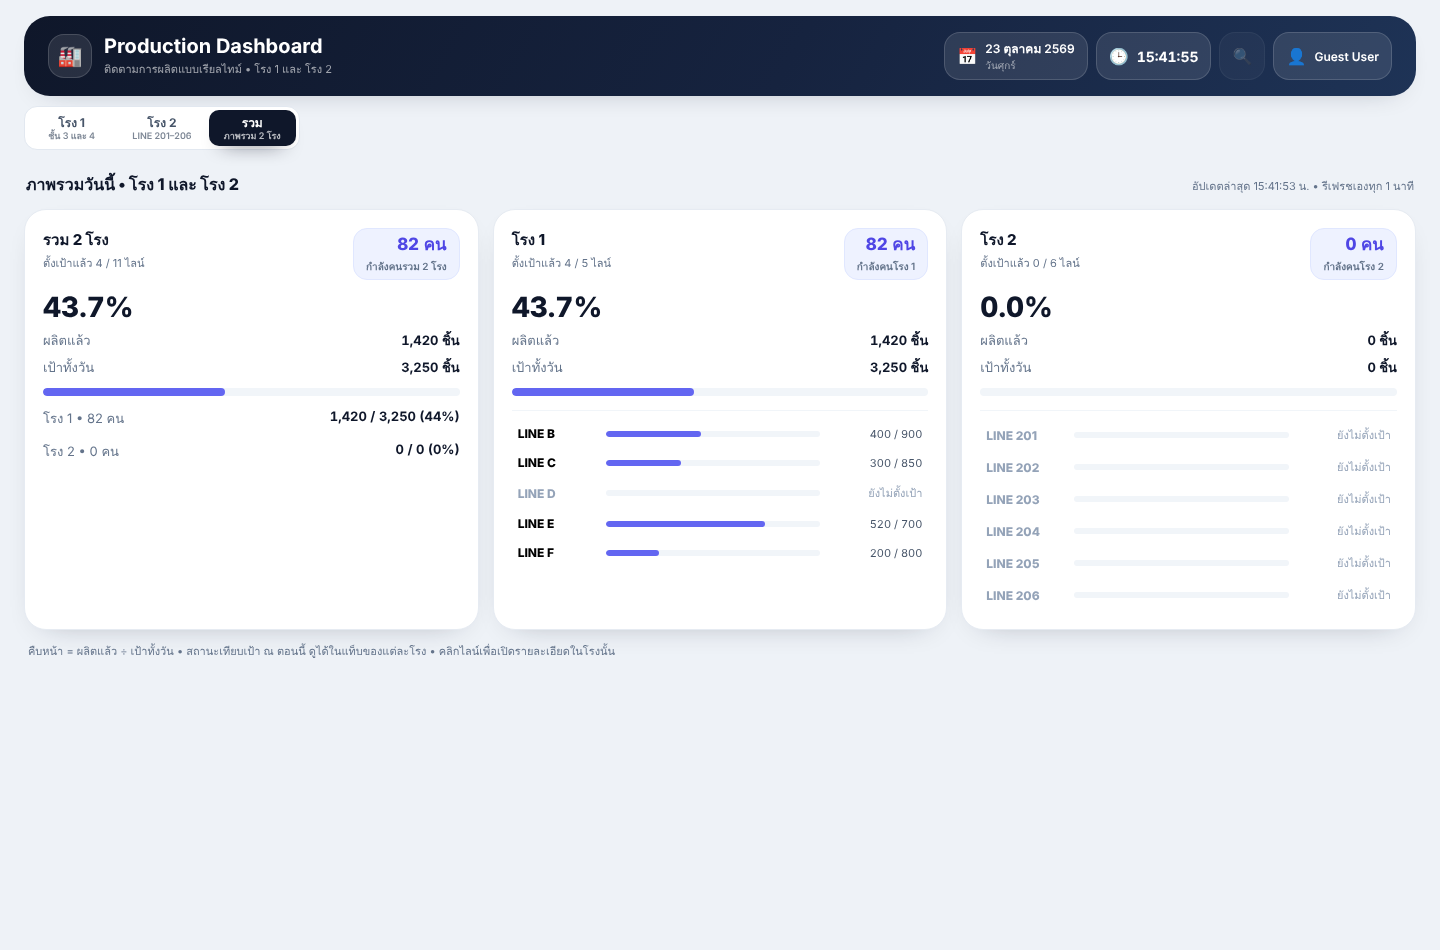
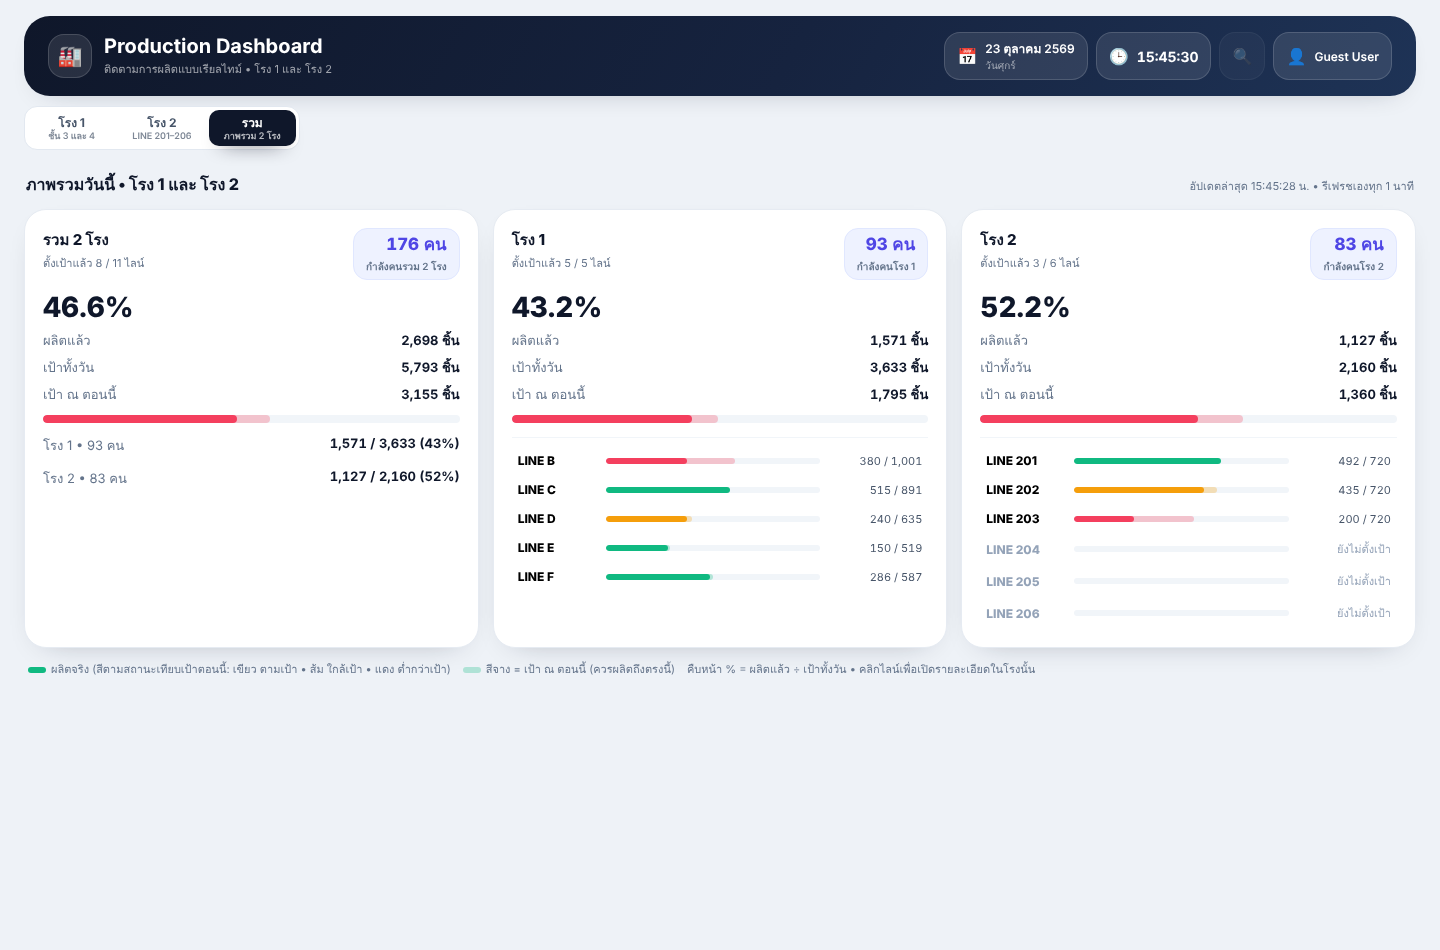
Combined page: faded target-now layer on bars, status colors
Claude-Session: https://claude.ai/code/session_019Vn9qy6qrnvbmqBZX3V853

diff --git a/all.html b/all.html
@@ -71,6 +71,12 @@
   .kv b{font-variant-numeric:tabular-nums}
   .track{background:#F1F5F9;border-radius:999px;height:8px;overflow:hidden;margin-top:10px}
   .fill{height:8px;border-radius:999px;background:var(--ok);transition:width .25s ease}
+  /* แถบ 2 ชั้น: ชั้นจาง = เป้า ณ ตอนนี้ (รอให้ถึง) • ชั้นเข้ม = ผลิตจริง */
+  .track,.lineRow .mini{position:relative}
+  .track .ghost,.lineRow .mini .ghost{position:absolute;left:0;top:0;bottom:0;border-radius:999px;opacity:.28;transition:width .25s ease}
+  .track .fill,.lineRow .mini i.solid{position:relative}
+  .legend{display:flex;flex-wrap:wrap;gap:12px;align-items:center;margin:12px 4px 0;font-size:11px;color:var(--muted)}
+  .legend .sw{display:inline-block;width:18px;height:6px;border-radius:999px;vertical-align:middle;margin-right:5px}
   .lines{margin-top:14px;border-top:1px solid #F1F5F9;padding-top:8px}
   .lineRow{display:grid;grid-template-columns:78px 1fr 92px;gap:10px;align-items:center;padding:7px 6px;border-radius:12px;width:100%;border:0;background:transparent;text-align:left}
   .lineRow:hover{background:#F8FAFC}
@@ -138,7 +144,11 @@
       <div class="card" id="cardF1"></div>
       <div class="card" id="cardF2"></div>
     </div>
-    <p class="note" style="margin:12px 4px 0;font-size:11px;color:var(--muted)">คืบหน้า = ผลิตแล้ว ÷ เป้าทั้งวัน • สถานะเทียบเป้า ณ ตอนนี้ ดูได้ในแท็บของแต่ละโรง • คลิกไลน์เพื่อเปิดรายละเอียดในโรงนั้น</p>
+    <div class="legend">
+      <span><i class="sw" style="background:var(--ok)"></i>ผลิตจริง (สีตามสถานะเทียบเป้าตอนนี้: เขียว ตามเป้า • ส้ม ใกล้เป้า • แดง ต่ำกว่าเป้า)</span>
+      <span><i class="sw" style="background:var(--ok);opacity:.28"></i>สีจาง = เป้า ณ ตอนนี้ (ควรผลิตถึงตรงนี้)</span>
+      <span>คืบหน้า % = ผลิตแล้ว ÷ เป้าทั้งวัน • คลิกไลน์เพื่อเปิดรายละเอียดในโรงนั้น</span>
+    </div>
   </section>
 </div>
 
@@ -317,7 +327,7 @@
       var t = lineTotals(it);
       var mp = it.manpower;
       mp = (mp === null || mp === undefined || mp === "") ? 0 : Math.max(0, Math.round(num(mp) * 2) / 2);
-      return { code: FACTORIES[key].lineCode(it.line), target: t.target, actual: t.actual, people: mp };
+      return { code: FACTORIES[key].lineCode(it.line), target: t.target, actual: t.actual, people: mp, item: it };
     });
     // นับเฉพาะไลน์ที่ตั้งเป้าวันนี้แล้ว (ไลน์ที่ยังไม่ตั้งเป้าอาจมีค่ากำลังคนค้างจากวันก่อน)
     var people = lines.reduce(function (a, l) { return a + (l.target > 0 ? l.people : 0); }, 0);
@@ -326,8 +336,81 @@
     return { key: key, lines: lines, target: target, actual: actual, people: people, planned: lines.filter(function (l) { return l.target > 0; }).length };
   }
 
-  // คืบหน้าทั้งวัน (ยังไม่ใช่สถานะเทียบเป้า ณ ตอนนี้) → สีกลาง ๆ ครบเป้าแล้วเป็นสีเขียว
-  function barColor(p) { return p >= 100 ? "var(--ok)" : "#6366F1"; }
+  var STATUS_COLOR = { ok: "var(--ok)", warn: "var(--warn)", bad: "var(--bad)", idle: "#CBD5E1" };
+  var NEUTRAL = "#6366F1"; // ยังคำนวณเป้าตอนนี้ไม่ได้ (เช่น Dashboard โรง 2 ยังโหลดไม่เสร็จ)
+
+  // ===== เป้า ณ ตอนนี้ ของแต่ละไลน์ — ใช้วิธีคิดเดียวกับ Dashboard ของโรงนั้นเป๊ะ =====
+  // โรง 1: เหมือน getLotPlan + getLotLiveMetrics + getLineStatus ใน output/index.html
+  //        (เป้าต่อชม.ของแต่ละ LOT × ชั่วโมงที่บันทึกแล้ว, เกณฑ์ขาด ≤10 ชิ้น เขียว / ≤20 ส้ม / เกินนั้น แดง)
+  function f1LineNow(it) {
+    var total = num(it.total_working_hours) || 8;
+    var lot1 = String(it.lot_number || it.lot1 || "").trim();
+    var lot2 = String(it.lot_number2 || it.lot2 || "").trim();
+    var lot3 = String(it.lot_number3 || it.lot3 || "").trim();
+    var h1 = num(it.hours1) > 0 ? num(it.hours1) : ((!lot2 && !lot3) ? total : 0);
+    var lots = [
+      { lot: lot1, target: num(it.target1) || num(it.target), hours: h1, passed: num(it.production_hours_passed_1), cur: num(it.current_actual_1) },
+      { lot: lot2, target: num(it.target2), hours: num(it.hours2), passed: num(it.production_hours_passed_2), cur: num(it.current_actual_2) },
+      { lot: lot3, target: num(it.target3), hours: num(it.hours3), passed: num(it.production_hours_passed_3), cur: num(it.current_actual_3) }
+    ];
+    var now = 0, rep = 0;
+    lots.forEach(function (lp, i) {
+      if (i > 0 && !lp.lot) return;
+      var h = Math.max(0, lp.hours);
+      var passed = Math.min(h, Math.max(0, lp.passed));
+      now += Math.round((h > 0 ? lp.target / h : 0) * passed);
+      rep += lp.cur;
+    });
+    var key;
+    if (now <= 0 && rep <= 0) key = "idle";
+    else if (now <= 0) key = "ok";
+    else key = (rep - now) >= -10 ? "ok" : (rep - now) >= -20 ? "warn" : "bad";
+    return { now: now, key: key };
+  }
+  // โรง 2: เรียก targetNowFor / lineStatus จาก Dashboard โรง 2 ที่โหลดอยู่ในแท็บข้างใน (ตารางเวลา / Rate ตรงกันแน่นอน)
+  function f2Win() {
+    try {
+      var w = frameOf("f2").contentWindow;
+      var d = w && w.dashboardData;
+      if (w && typeof w.targetNowFor === "function" && d && d.date === todayStr() && !d.isRange) return w;
+    } catch (e) {}
+    return null;
+  }
+  function lineNow(key, it) {
+    if (key === "f1") return f1LineNow(it);
+    var w = f2Win();
+    if (!w) return null;
+    try {
+      var st = w.lineStatus(it, todayStr());
+      return { now: num(w.targetNowFor(it, todayStr())), key: st.key === "idle" && num(it.actual) > 0 ? "ok" : st.key };
+    } catch (e) { return null; }
+  }
+  // ระดับโรง / รวม 2 โรง: ผลิตจริงเทียบผลรวมเป้าตอนนี้ (ถึงเป้า เขียว / ได้ 90% ขึ้นไป ส้ม / ต่ำกว่านั้น แดง)
+  function sumKey(now, actual) {
+    if (now <= 0) return actual > 0 ? "ok" : "idle";
+    return actual >= now ? "ok" : actual / now >= 0.9 ? "warn" : "bad";
+  }
+  function twoLayer(cls, target, actual, now, key) {
+    var w = target ? Math.min(100, actual / target * 100) : 0;
+    var color = key ? STATUS_COLOR[key] : NEUTRAL;
+    var ghost = (key && now > 0 && target) ? "<span class='ghost' style='width:" + Math.min(100, now / target * 100) + "%;background:" + color + "'></span>" : "";
+    return ghost + (cls === "fill"
+      ? "<div class='fill' style='width:" + w + "%;background:" + color + "'></div>"
+      : "<i class='solid' style='width:" + w + "%;background:" + color + "'></i>");
+  }
+  function applyNow(s) {
+    var ready = true;
+    s.now = 0;
+    s.lines.forEach(function (l) {
+      var r = l.target ? lineNow(s.key, l.item) : { now: 0, key: "idle" };
+      if (!r) { ready = false; l.now = 0; l.key = null; return; }
+      l.now = Math.min(l.target, r.now); l.key = r.key;
+      s.now += l.now;
+    });
+    s.ready = ready;
+    s.st = ready ? sumKey(s.now, s.actual) : null;
+    return s;
+  }
 
   // จำนวนคนรวม (มุมขวาบนของการ์ด) = ผลรวม "กำลังคน" ทุกไลน์ของวันนี้
   function peopleBox(n, label) {
@@ -347,12 +430,12 @@
       "<div class='big'>" + p.toFixed(1) + "%</div>" +
       "<div class='kv'><span>ผลิตแล้ว</span><b>" + fmt(s.actual) + " ชิ้น</b></div>" +
       "<div class='kv'><span>เป้าทั้งวัน</span><b>" + fmt(s.target) + " ชิ้น</b></div>" +
-      "<div class='track'><div class='fill' style='width:" + Math.min(100, p) + "%;background:" + barColor(p) + "'></div></div>" +
+      "<div class='kv'><span>เป้า ณ ตอนนี้</span><b>" + (s.ready ? fmt(s.now) + " ชิ้น" : "กำลังคำนวณ...") + "</b></div>" +
+      "<div class='track'>" + twoLayer("fill", s.target, s.actual, s.now, s.st) + "</div>" +
       "<div class='lines'>" + s.lines.map(function (l) {
-        var lp = l.target ? l.actual / l.target * 100 : 0;
         return "<button type='button' class='lineRow" + (l.target ? "" : " idle") + "' data-tab='" + s.key + "' data-line='" + esc(l.code) + "'>" +
           "<span class='nm'>LINE " + esc(l.code) + "</span>" +
-          "<span class='mini'><i style='width:" + Math.min(100, lp) + "%;background:" + barColor(lp) + "'></i></span>" +
+          "<span class='mini' title='" + (l.key && l.target ? "เป้าตอนนี้ " + fmt(l.now) + " ชิ้น" : "") + "'>" + twoLayer("mini", l.target, l.actual, l.now, l.target ? l.key : "idle") + "</span>" +
           "<span class='num'>" + (l.target ? fmt(l.actual) + " / " + fmt(l.target) : "ยังไม่ตั้งเป้า") + "</span></button>";
       }).join("") + "</div>";
     el.querySelectorAll(".lineRow").forEach(function (b) {
@@ -367,6 +450,8 @@
     var planned = ok.reduce(function (a, s) { return a + s.planned; }, 0);
     var all = ok.reduce(function (a, s) { return a + s.lines.length; }, 0);
     var people = ok.reduce(function (a, s) { return a + s.people; }, 0);
+    var ready = ok.length > 0 && ok.every(function (s) { return s.ready; });
+    var now = ok.reduce(function (a, s) { return a + (s.now || 0); }, 0);
     var p = target ? actual / target * 100 : 0;
     $("cardAll").innerHTML =
       "<div class='cardHead'><div><h3>รวม 2 โรง</h3><div class='note'>ตั้งเป้าแล้ว " + planned + " / " + all + " ไลน์" + (ok.length < 2 ? " • ข้อมูลไม่ครบ" : "") + "</div></div>" +
@@ -374,11 +459,41 @@
       "<div class='big'>" + p.toFixed(1) + "%</div>" +
       "<div class='kv'><span>ผลิตแล้ว</span><b>" + fmt(actual) + " ชิ้น</b></div>" +
       "<div class='kv'><span>เป้าทั้งวัน</span><b>" + fmt(target) + " ชิ้น</b></div>" +
-      "<div class='track'><div class='fill' style='width:" + Math.min(100, p) + "%;background:" + barColor(p) + "'></div></div>" +
+      "<div class='kv'><span>เป้า ณ ตอนนี้</span><b>" + (ready ? fmt(now) + " ชิ้น" : "กำลังคำนวณ...") + "</b></div>" +
+      "<div class='track'>" + twoLayer("fill", target, actual, now, ready ? sumKey(now, actual) : null) + "</div>" +
       ok.map(function (s) {
         var sp = s.target ? s.actual / s.target * 100 : 0;
         return "<div class='kv' style='margin-top:12px'><span>" + esc(FACTORIES[s.key].name) + " • " + fmt(s.people) + " คน</span><b>" + fmt(s.actual) + " / " + fmt(s.target) + " (" + sp.toFixed(0) + "%)</b></div>";
       }).join("");
+  }
+
+  var lastRes = null;
+  function renderOverview() {
+    if (!lastRes) return;
+    var parts = lastRes.map(function (r, i) {
+      var key = i === 0 ? "f1" : "f2";
+      var card = $(i === 0 ? "cardF1" : "cardF2");
+      if (r.status === "fulfilled") {
+        var s = applyNow(summarize(key, r.value));
+        renderFactoryCard(card, s);
+        return s;
+      }
+      renderFactoryCard(card, null, r.reason);
+      return null;
+    });
+    renderTotalCard(parts);
+    return parts;
+  }
+  // เป้าตอนนี้ของโรง 2 ต้องรอ Dashboard โรง 2 (ในแท็บข้างใน) โหลดข้อมูลวันนี้เสร็จก่อน → โหลดไว้เงียบ ๆ แล้ววาดใหม่
+  var waitF2Timer = null;
+  function waitF2ThenRender() {
+    clearTimeout(waitF2Timer);
+    ensureFrame("f2", true);
+    var tries = 0;
+    (function poll() {
+      if (f2Win()) { renderOverview(); return; }
+      if (++tries < 120) waitF2Timer = setTimeout(poll, 500);
+    })();
   }
 
   var overviewLoading = false;
@@ -388,19 +503,9 @@
     $("cardF1").dataset.key = "f1";
     $("cardF2").dataset.key = "f2";
     try {
-      var res = await Promise.allSettled([fetchSummary("f1"), fetchSummary("f2")]);
-      var parts = res.map(function (r, i) {
-        var key = i === 0 ? "f1" : "f2";
-        var card = $(i === 0 ? "cardF1" : "cardF2");
-        if (r.status === "fulfilled") {
-          var s = summarize(key, r.value);
-          renderFactoryCard(card, s);
-          return s;
-        }
-        renderFactoryCard(card, null, r.reason);
-        return null;
-      });
-      renderTotalCard(parts);
+      lastRes = await Promise.allSettled([fetchSummary("f1"), fetchSummary("f2")]);
+      var parts = renderOverview();
+      if (parts[1] && !parts[1].ready) waitF2ThenRender();
       $("ovUpdated").innerText = "อัปเดตล่าสุด " + new Date().toLocaleTimeString("th-TH", { hour: "2-digit", minute: "2-digit", second: "2-digit" }) + " น. • รีเฟรชเองทุก 1 นาที";
     } finally {
       overviewLoading = false;
